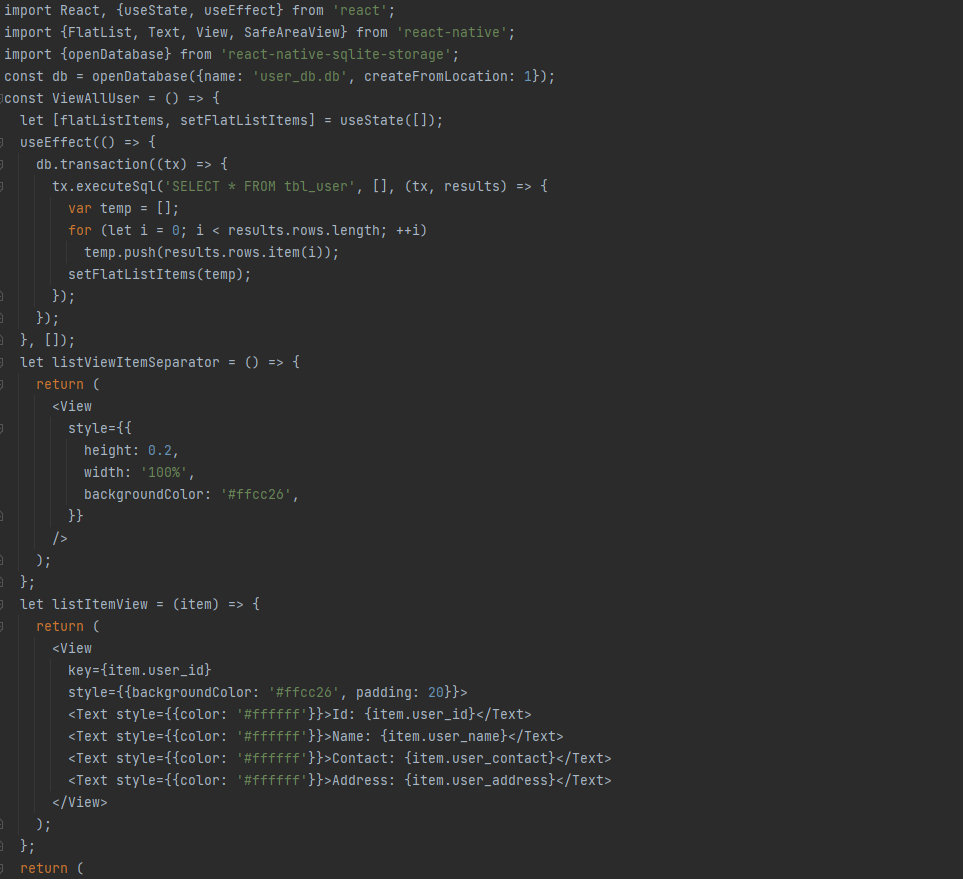
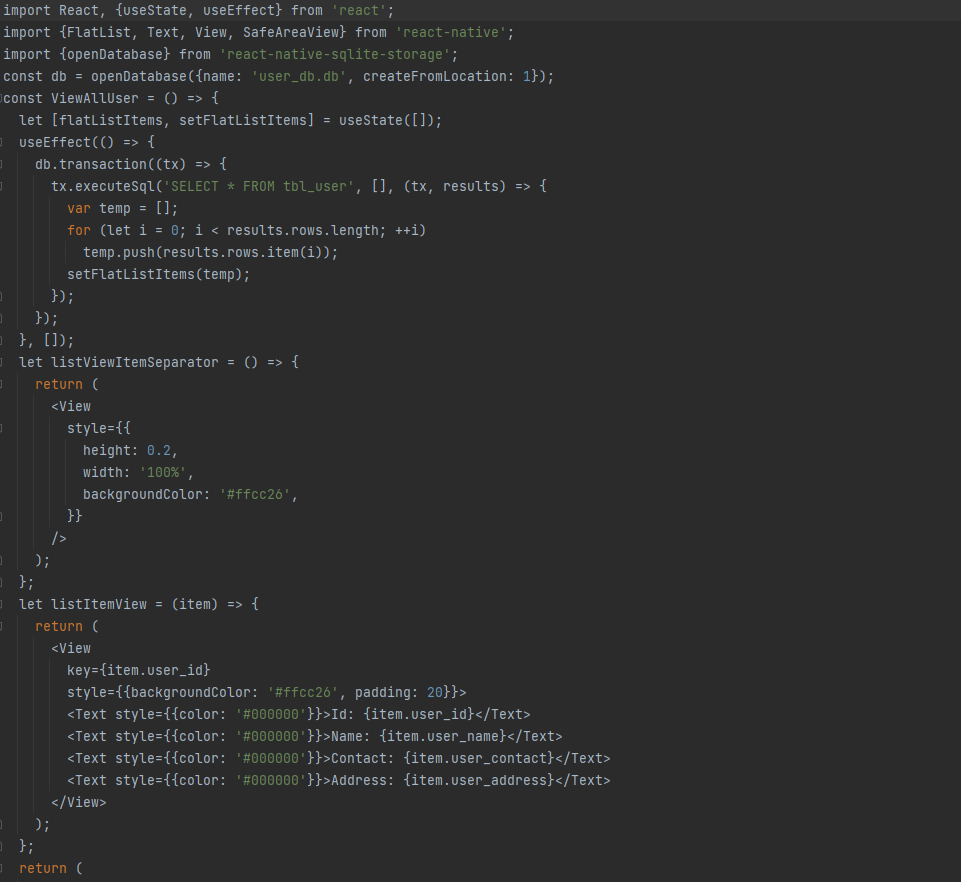
Laboratorium 7
Wykorzystanie bazy danych w aplikacji mobilnej

diff --git a/LAB7/pages/ViewAllUser.js b/LAB7/pages/ViewAllUser.js
@@ -30,10 +30,10 @@ const ViewAllUser = () => {
       <View
         key={item.user_id}
         style={{backgroundColor: '#ffcc26', padding: 20}}>
-        <Text style={{color: '#ffffff'}}>Id: {item.user_id}</Text>
-        <Text style={{color: '#ffffff'}}>Name: {item.user_name}</Text>
-        <Text style={{color: '#ffffff'}}>Contact: {item.user_contact}</Text>
-        <Text style={{color: '#ffffff'}}>Address: {item.user_address}</Text>
+        <Text style={{color: '#000000'}}>Id: {item.user_id}</Text>
+        <Text style={{color: '#000000'}}>Name: {item.user_name}</Text>
+        <Text style={{color: '#000000'}}>Contact: {item.user_contact}</Text>
+        <Text style={{color: '#000000'}}>Address: {item.user_address}</Text>
       </View>
     );
   };
